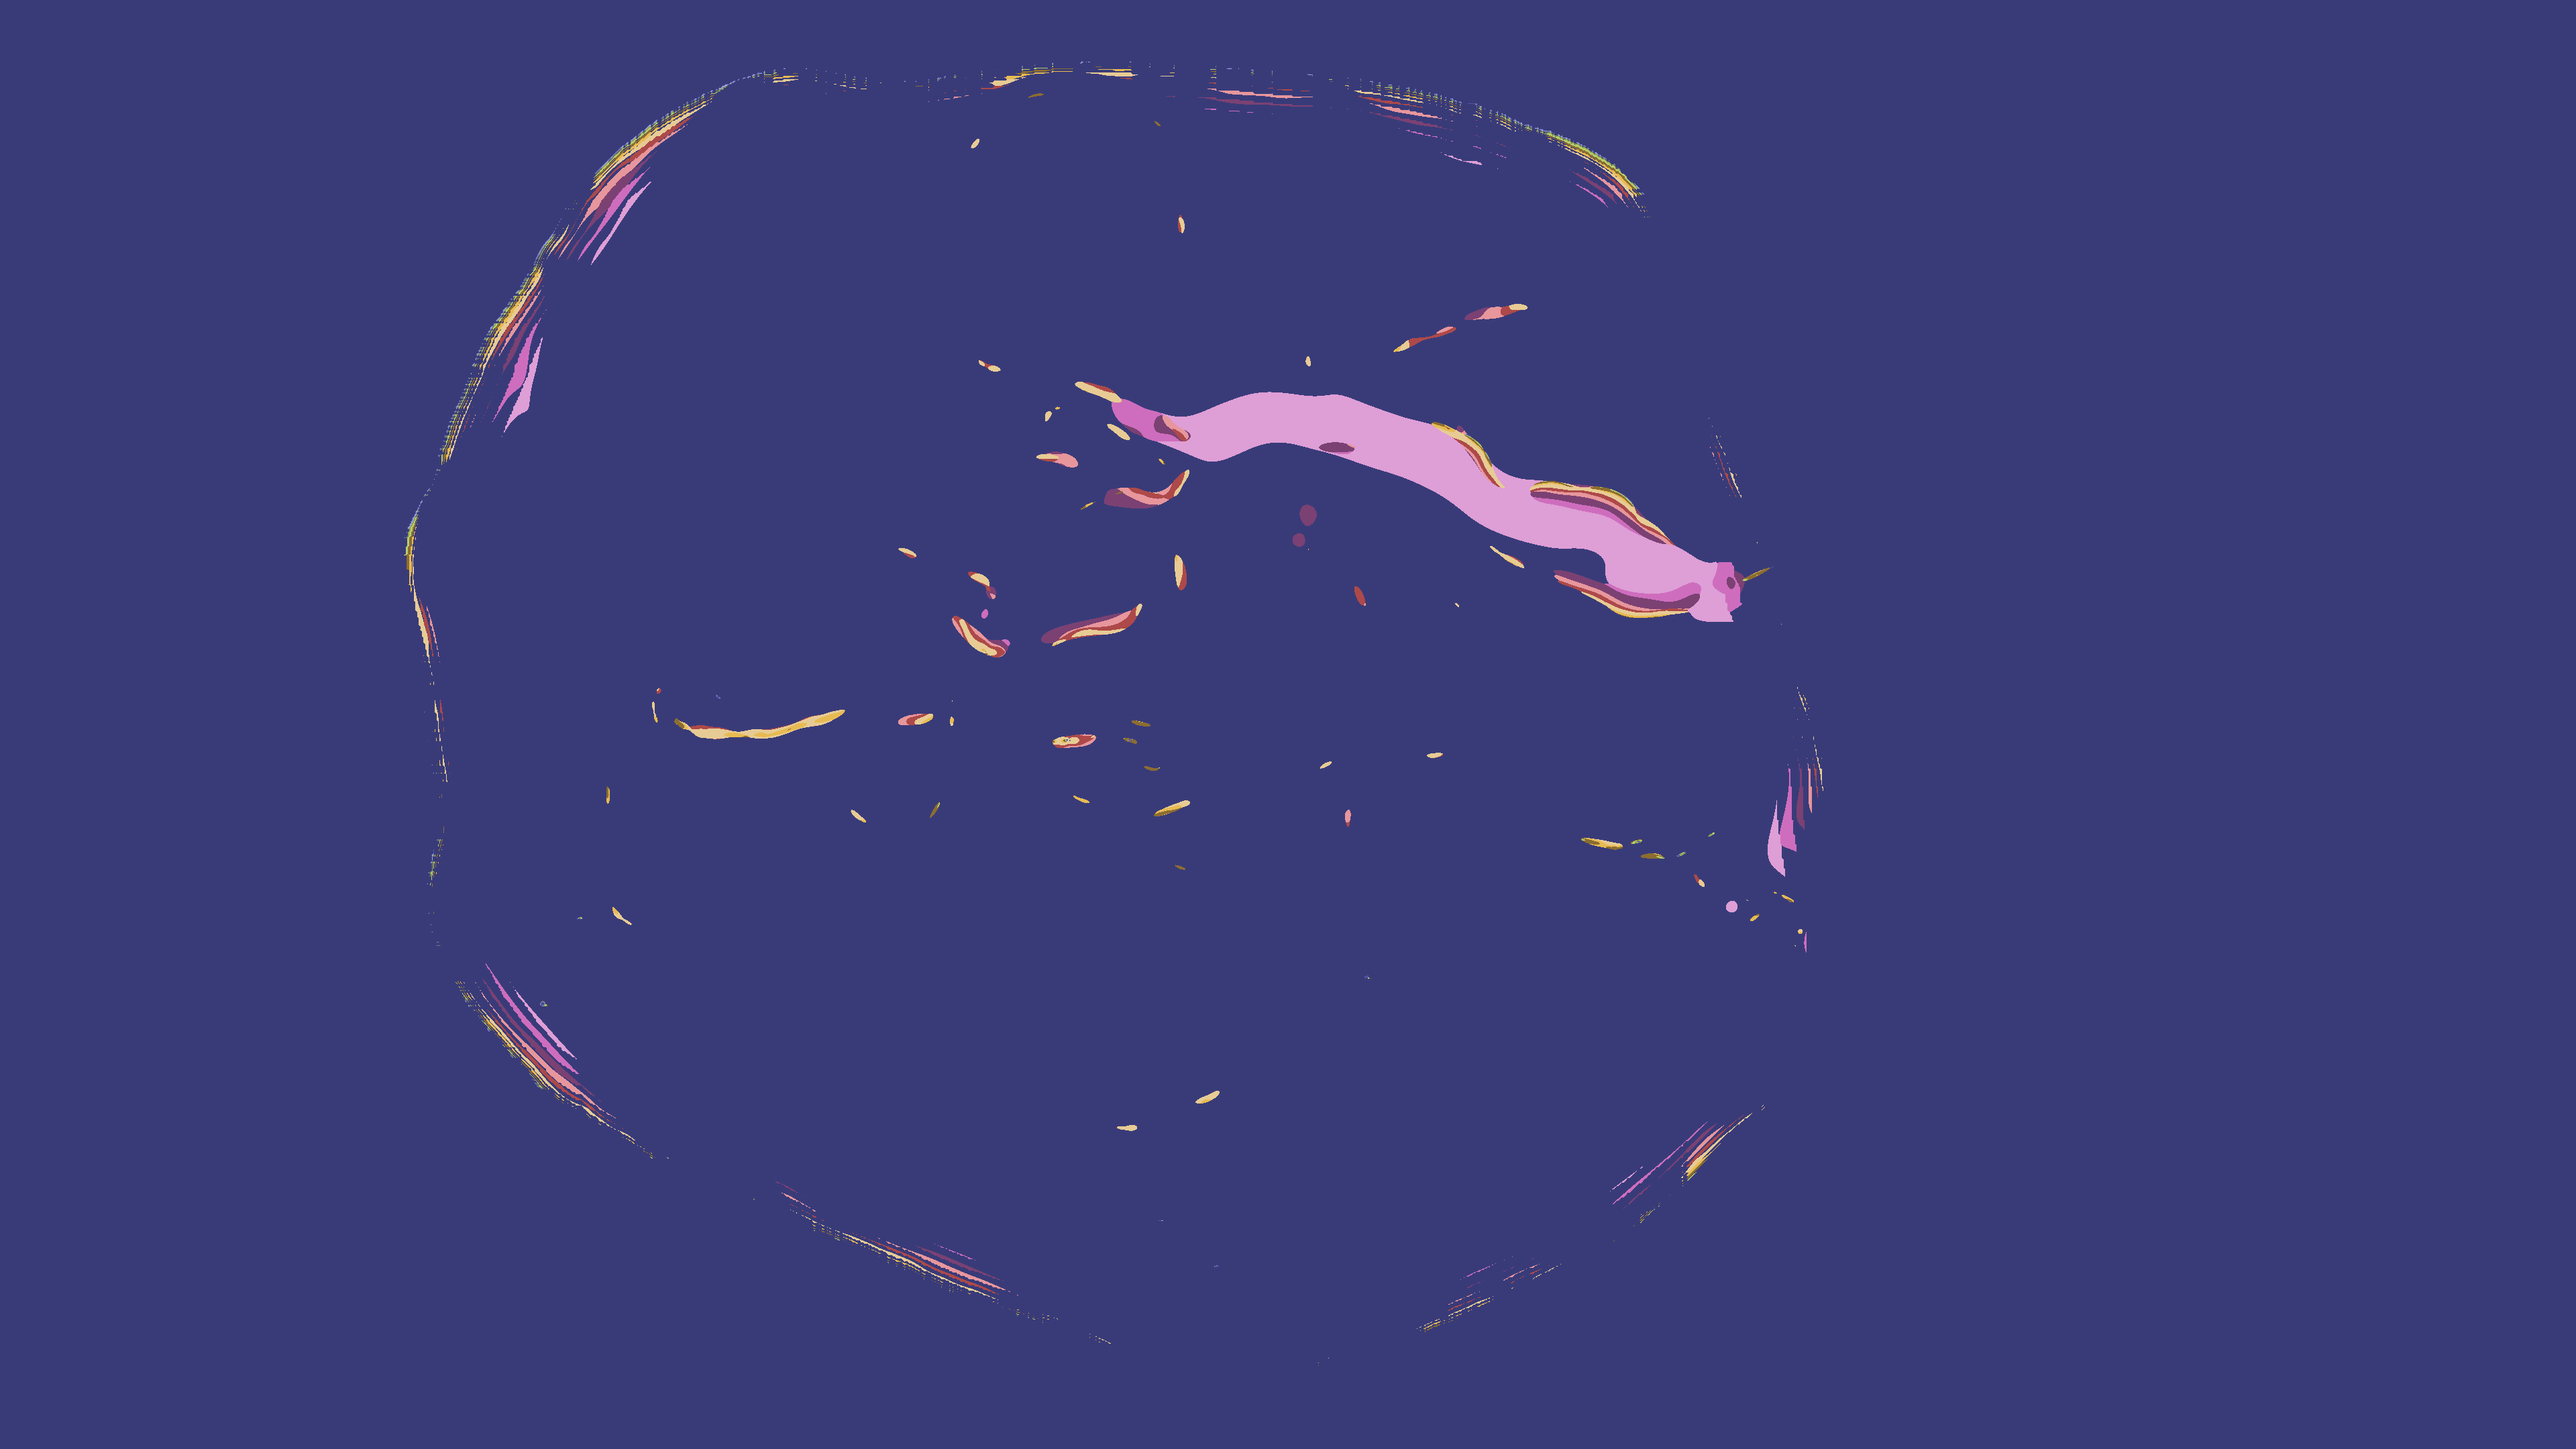
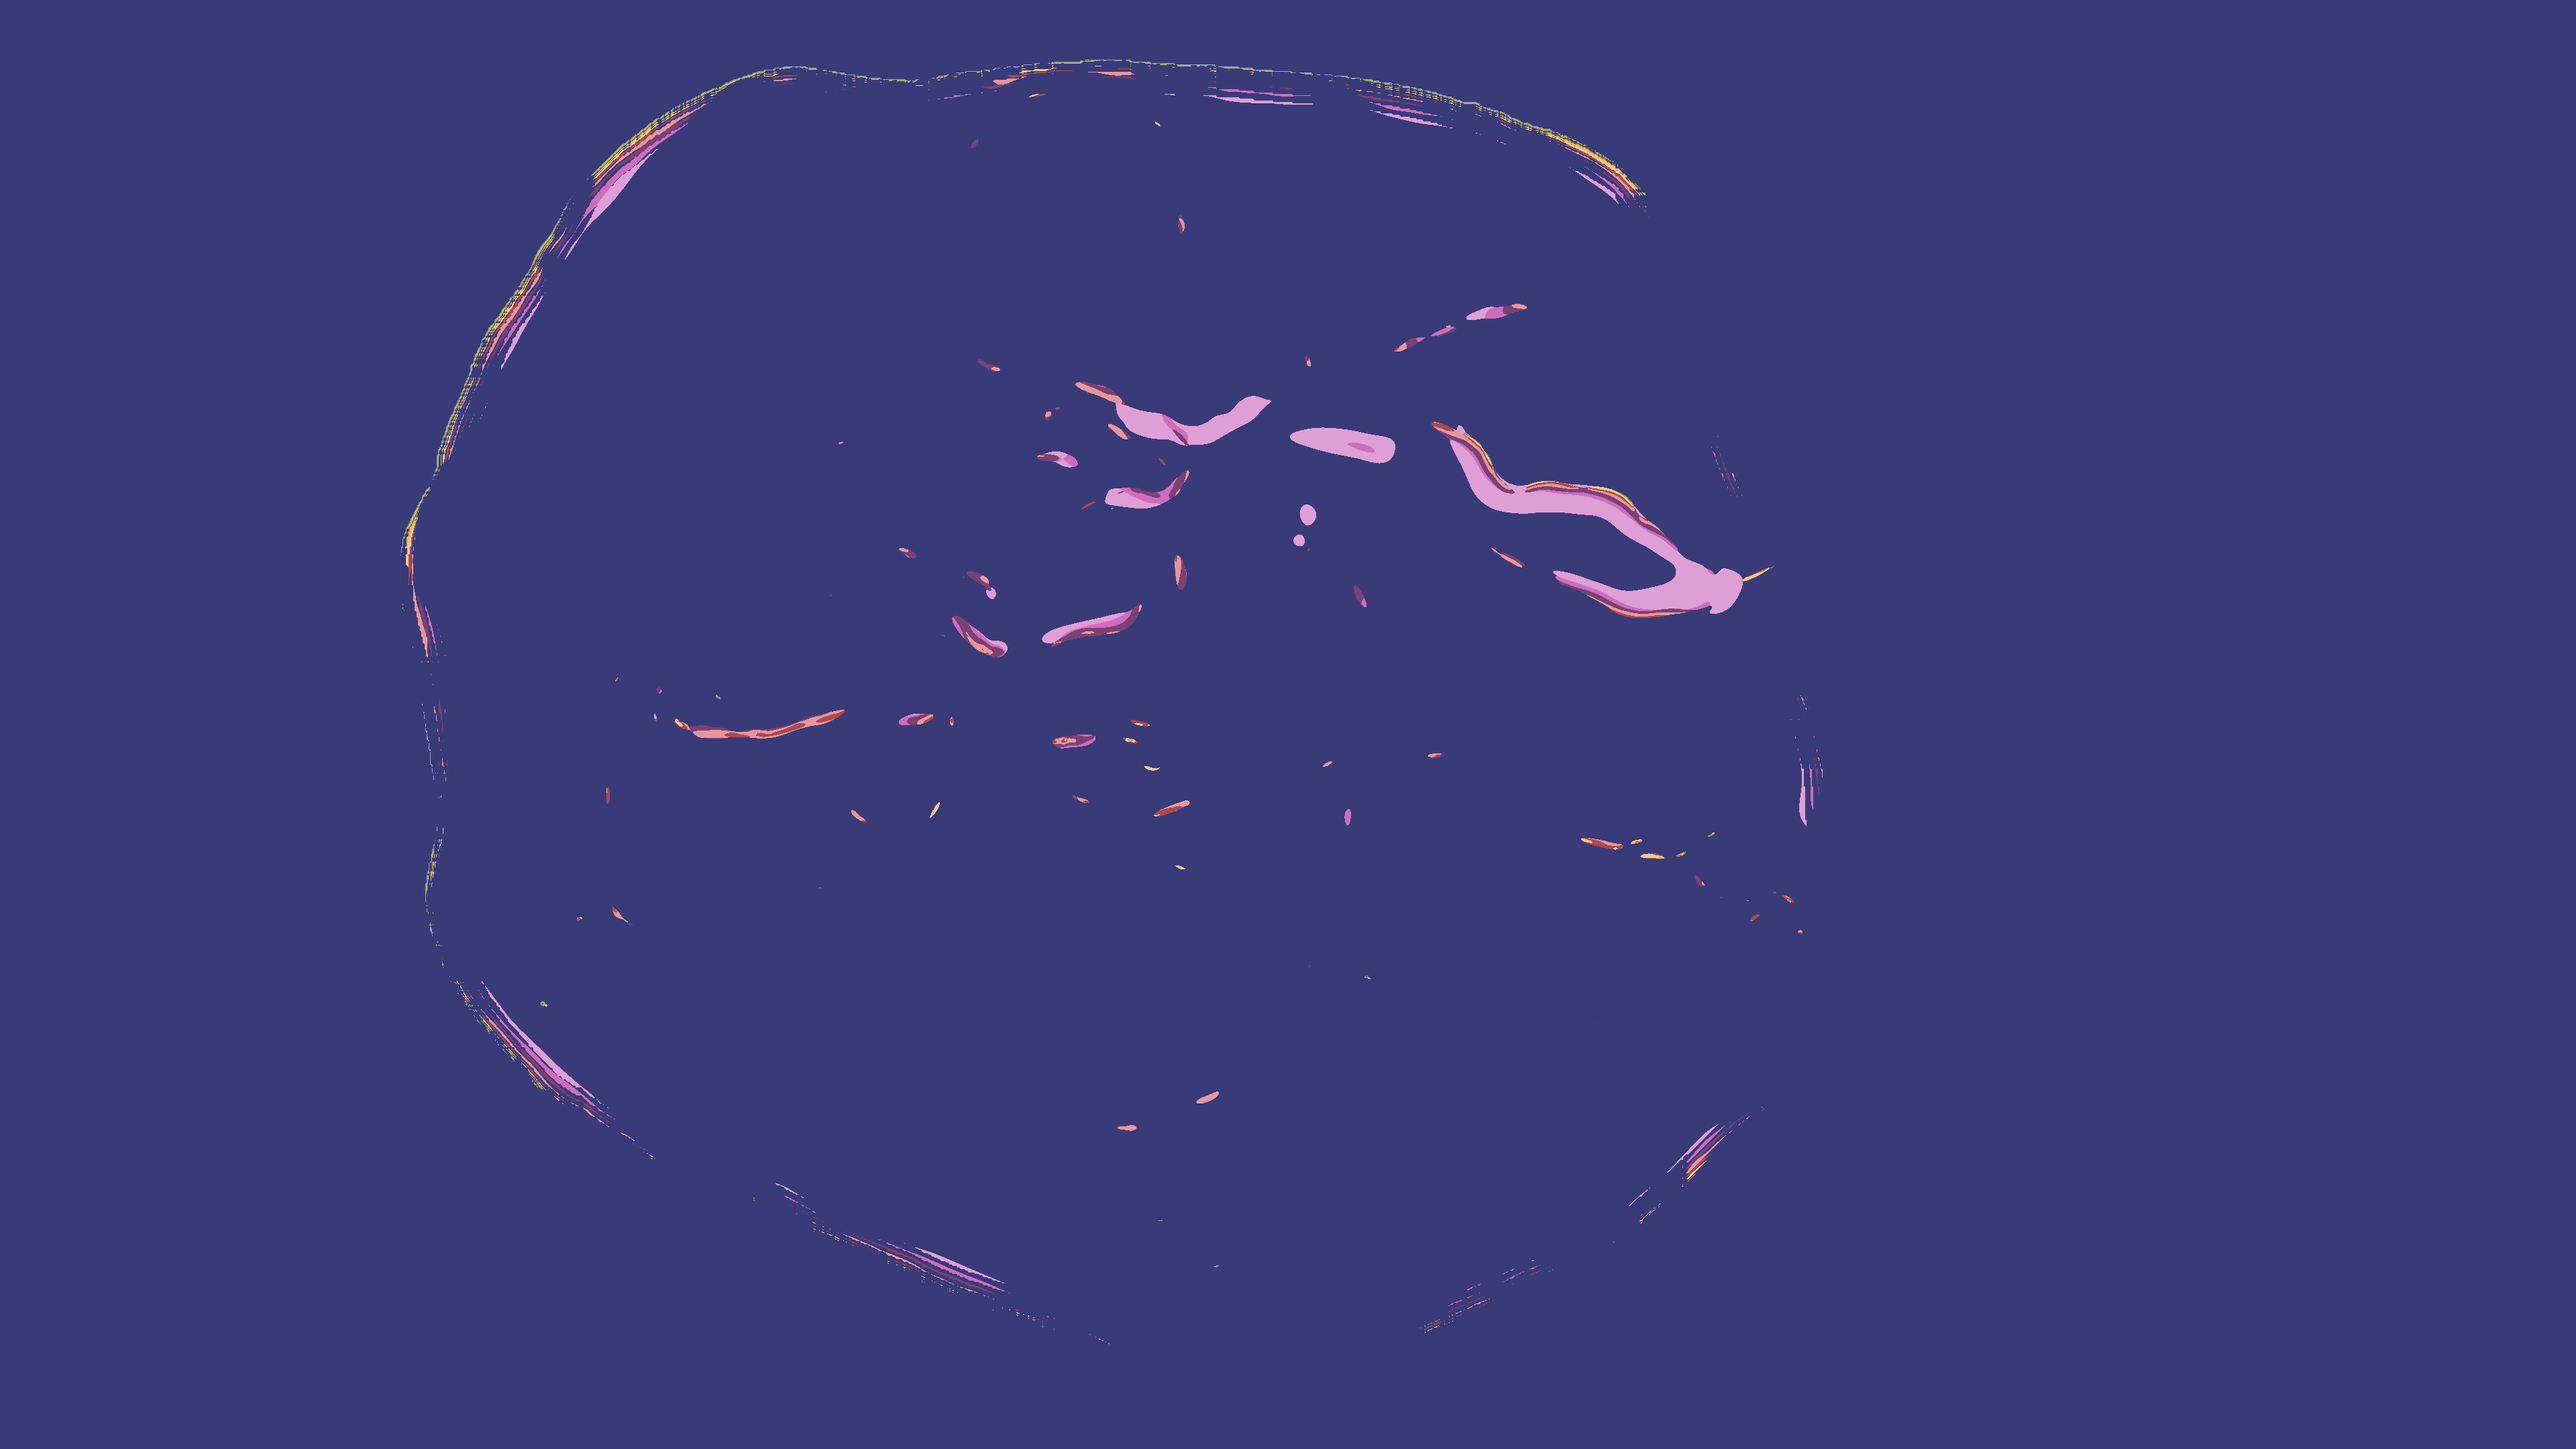
get rid of skeleton stuff. better scale range?

diff --git a/pcsvn.py b/pcsvn.py
@@ -211,8 +211,8 @@ alpha = 0.2
 ###Set base image#############################
 
 #filename = 'barium1.png'
-filename = 'barium2.png'
-#filename = 'NYMH_ID130016u.png'
+#filename = 'barium2.png'
+filename = 'NYMH_ID130016u.png'
 #filename = 'NYMH_ID130016i.png'
 
 #raw_img = get_named_placenta('TA-BN2341348.png', mask='TA-BN2341348_mask.png')
@@ -229,7 +229,10 @@ bg_mask = img.mask
 ###Set Parameter(s) for Frangi#################
 
 # set range of sigmas to use (declare these above)
-scales = np.logspace(1,5.5, num=12, base=2)
+# the
+log_min = 0 # minimum scale is 2**log_min
+log_max = 4.6 # maximum scale is 2**log_max
+scales = np.logspace(log_min, log_max, num=12, base=2)
 
 
 # set betas (anisotropy parameters)
@@ -293,23 +296,23 @@ if ma.is_masked(img):
 F_cumulative = (F_max > alpha)
 
 # where there's any match at all (LOOK INTO THIS)
-matched_all = match_on_skeleton(F_cumulative, F_all)
+#matched_all = match_on_skeleton(F_cumulative, F_all)
 
 # Process Composite ###############################3
 # make this a function
 
 # assign an index (later color) for where each max was found
-wheres = F_all.argmax(axis=-1)
+#wheres = F_all.argmax(axis=-1)
 
-wheres += 1
+#wheres += 1
 
-wheres[np.invert(matched_all)] = 0 # first label is stuff that didn't match
-wheres[F_max < alpha] = 0 # or that didn't pass the threshold
+#wheres[np.invert(matched_all)] = 0 # first label is stuff that didn't match
+#wheres[F_max < alpha] = 0 # or that didn't pass the threshold
 
 # same thing w/o skeleton matching
-wheres2 = F_all.argmax(axis=-1)
-wheres2 += 1
-wheres2[F_max < alpha] = 0
+wheres = F_all.argmax(axis=-1)
+wheres += 1
+wheres[F_max < alpha] = 0
 
 # Make Connected Graph
 
@@ -335,9 +338,9 @@ if __name__ == "__main__":
 
     base = os.path.basename(filename)
 
-    plt.imsave(base +'_scales_whole.png', wheres, cmap=plt.cm.tab20b)
-    plt.imsave(base +'_scales_whole_noskel.png', wheres2, cmap=plt.cm.tab20b)
-    plt.imsave(base +'_fmax.png', F_max.filled(0), cmap=plt.cm.Blues)
+    #plt.imsave(base +'_scales_whole.png', wheres, cmap=plt.cm.tab20b)
+    plt.imsave(base +'_scales_whole_noskel.png', wheres, cmap=plt.cm.tab20b)
+    #plt.imsave(base +'_fmax.png', F_max.filled(0), cmap=plt.cm.Blues)
     plt.imsave(base +'_skel.png', skeletonize(F_cumulative.filled(0)),
                cmap=plt.cm.gray)
     plt.imsave(base +'_fmax_thresh.png', F_cumulative.filled(0))
